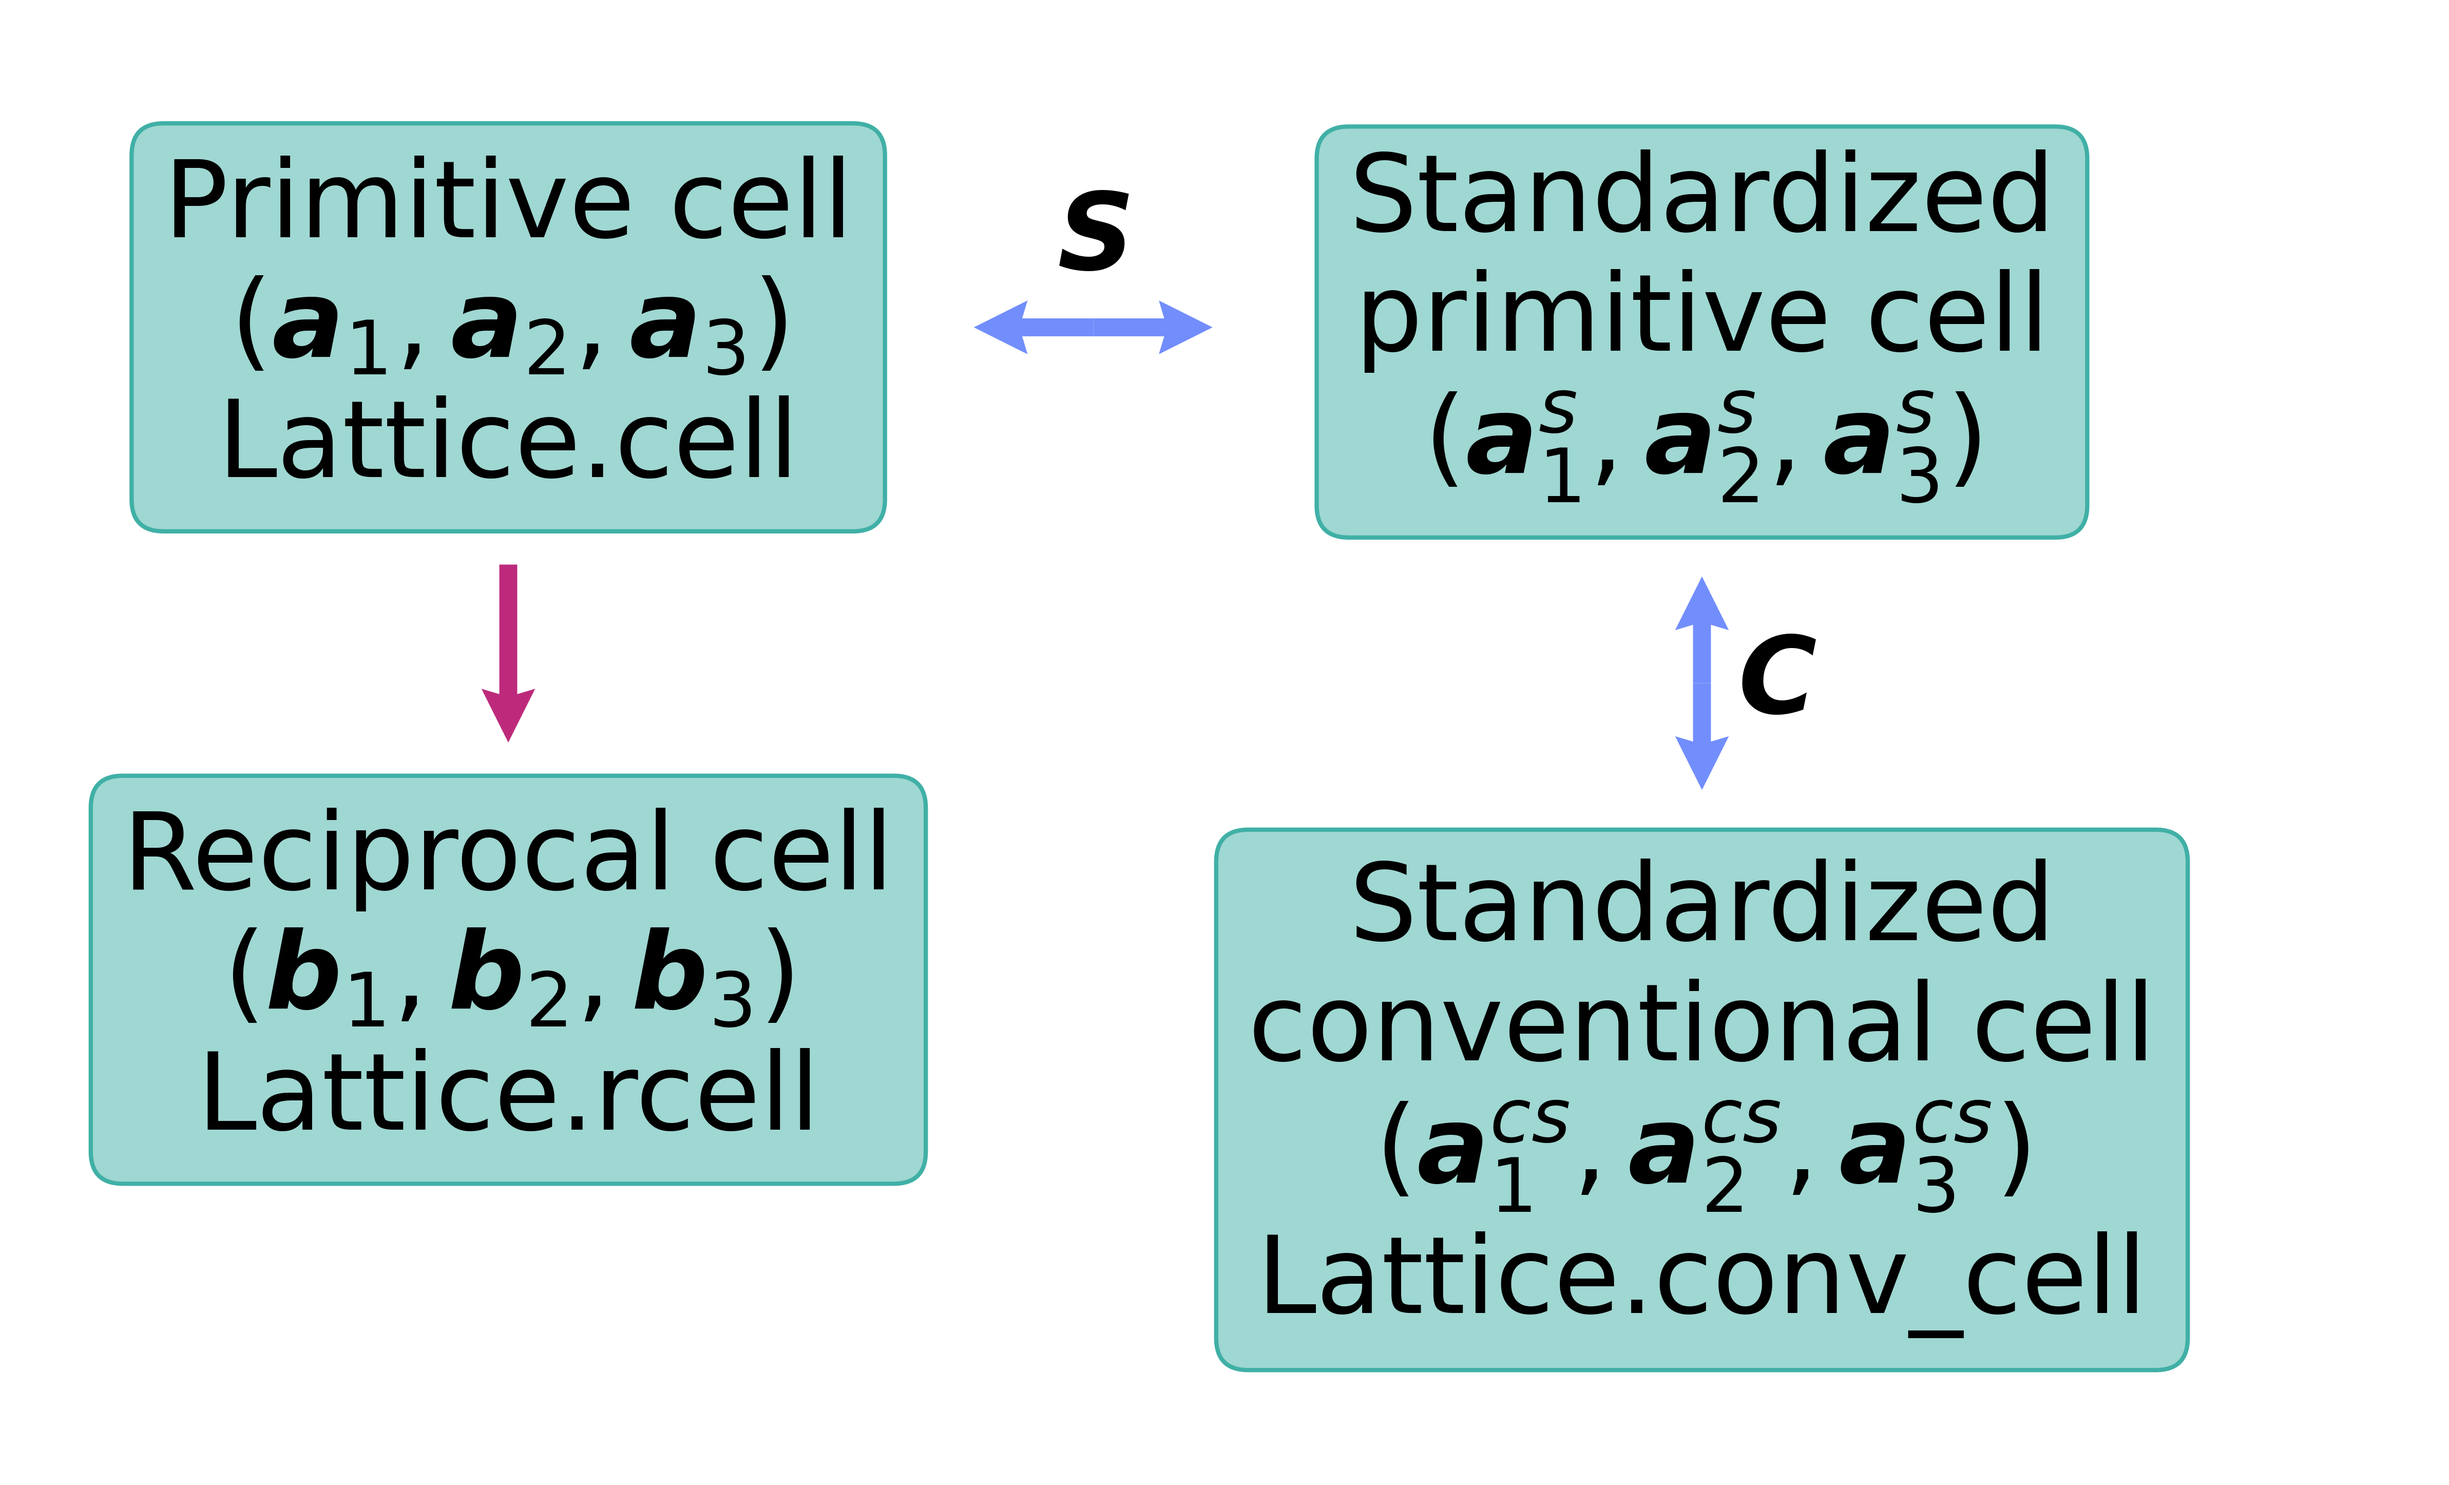
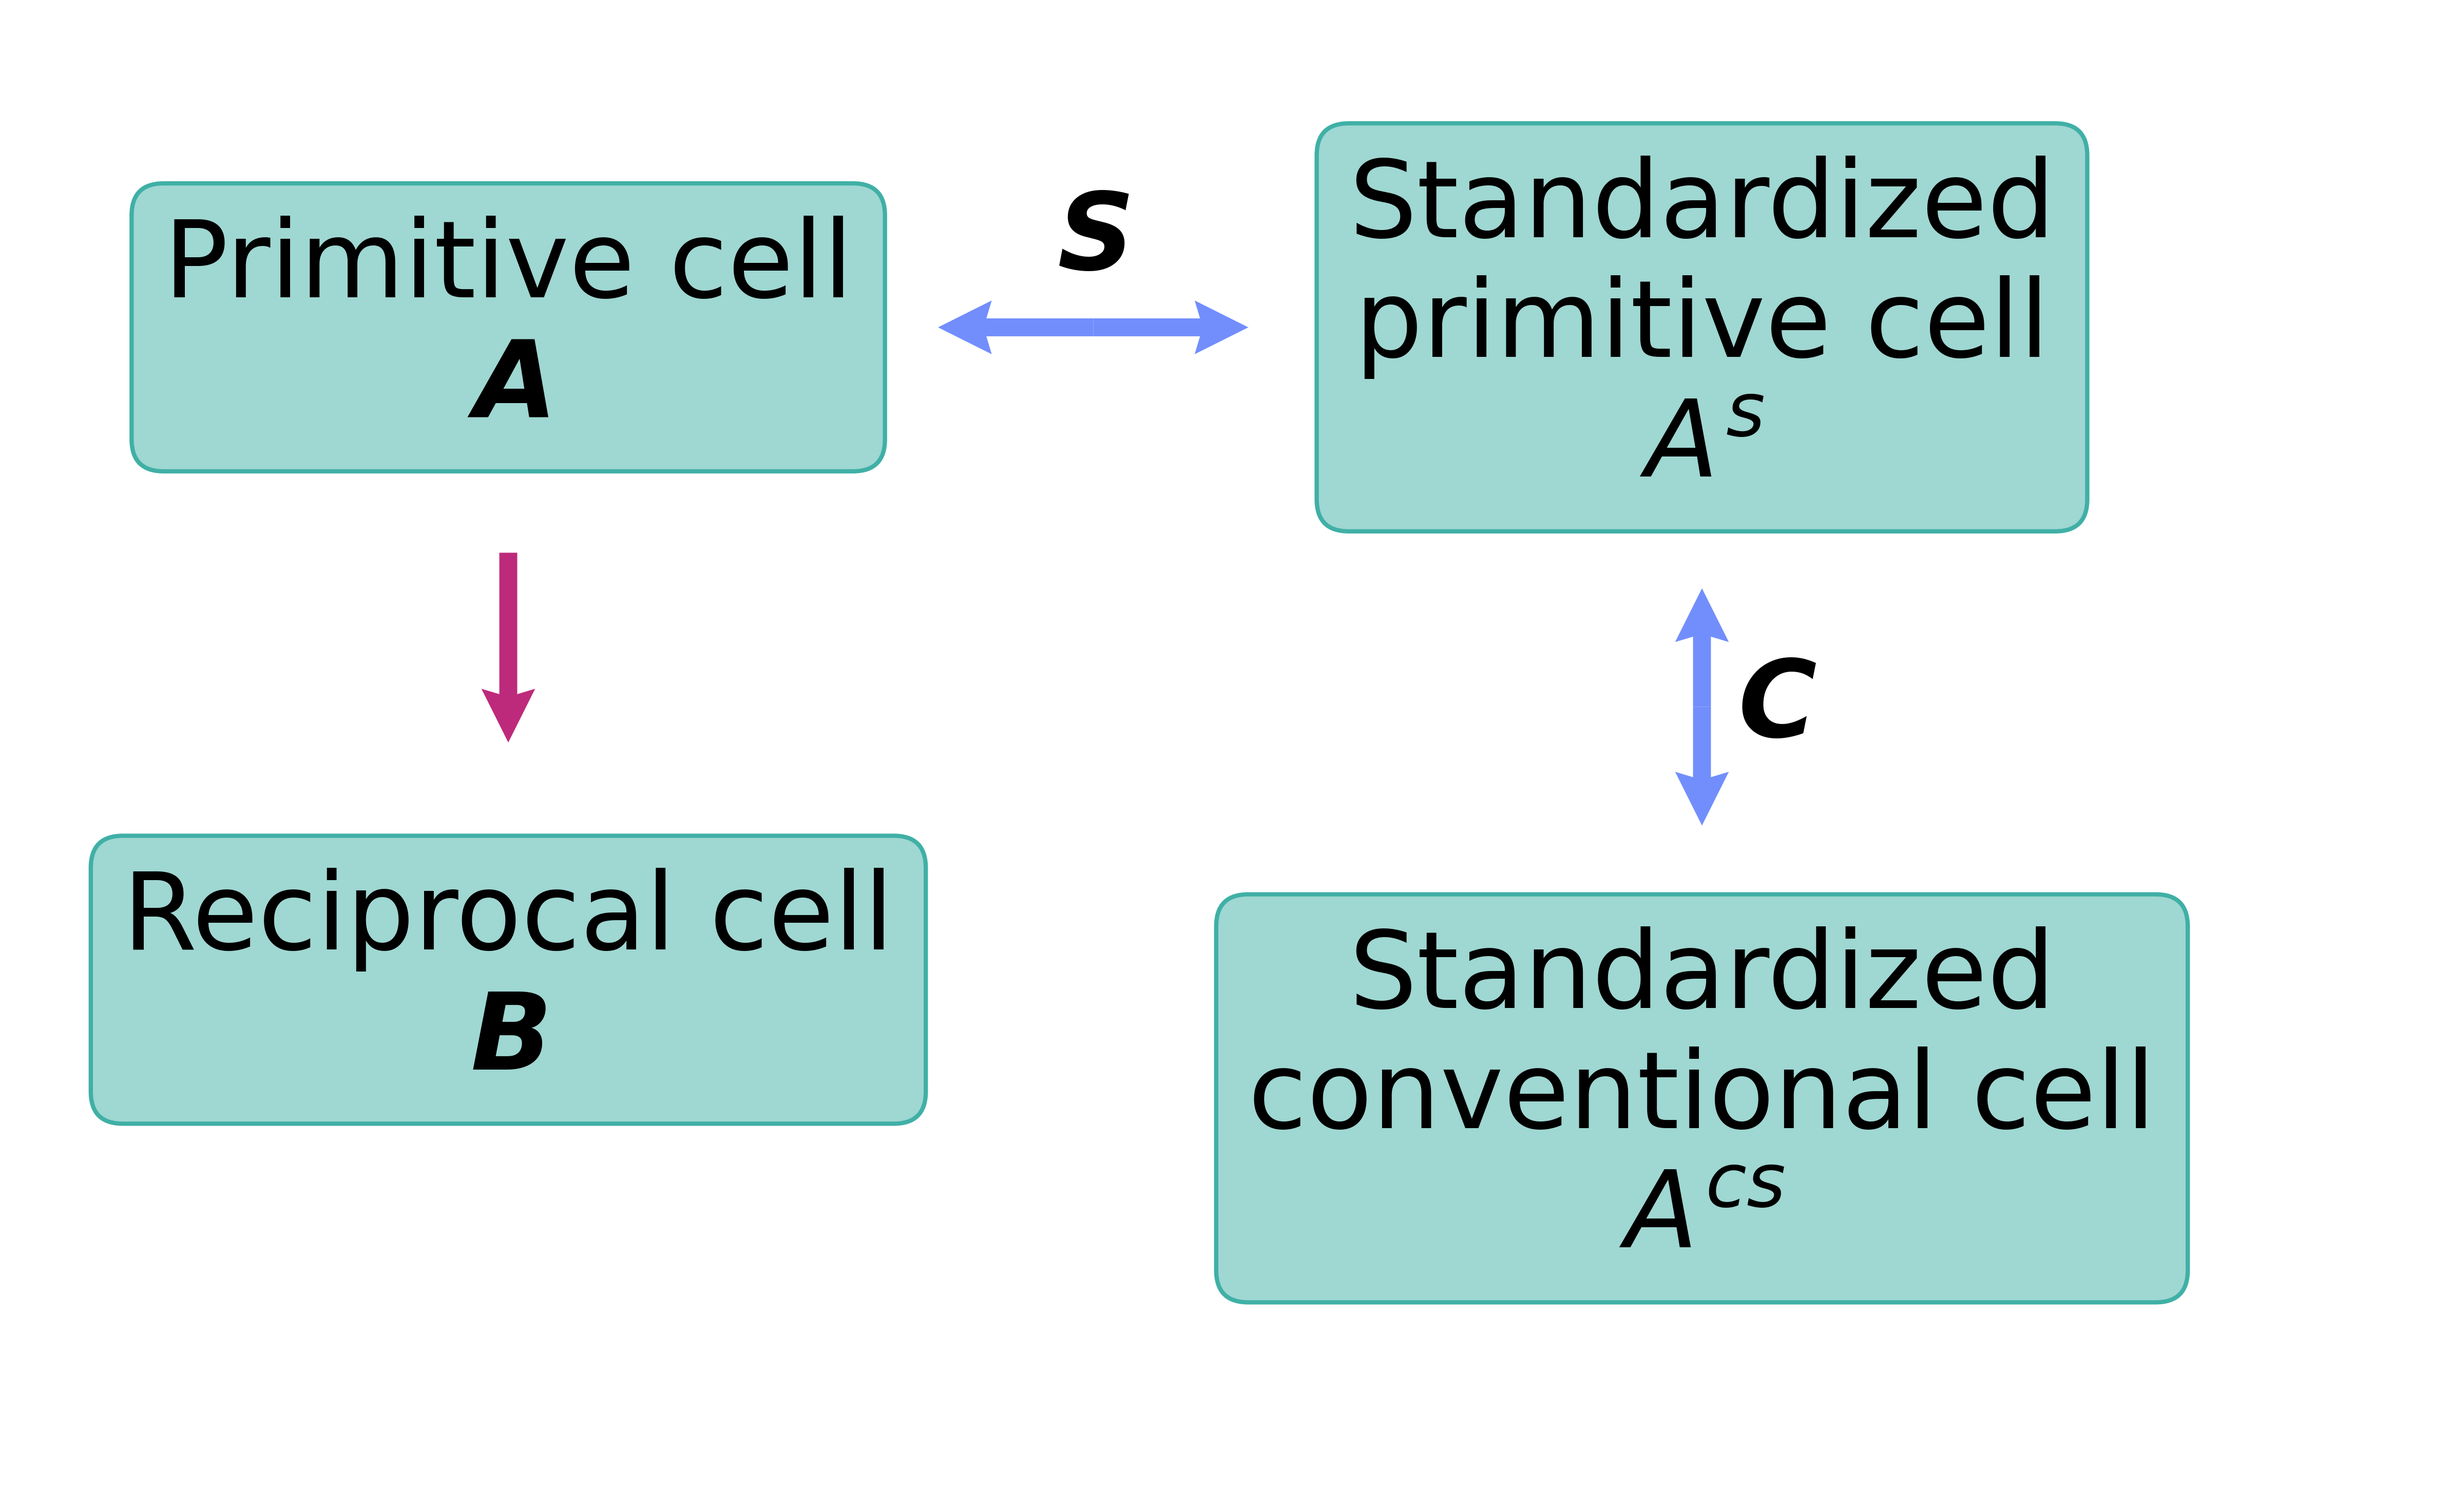
Rewrite part of docs

diff --git a/tools/plot-cell-relations.py b/tools/plot-cell-relations.py
@@ -1,5 +1,5 @@
 # Wulfric - Crystal, Lattice, Atoms, K-path.
-# Copyright (C) 2023-2024 Andrey Rybakov
+# Copyright (C) 2023-2025 Andrey Rybakov
 #
 # e-mail: anry@uv.es, web: adrybakov.com
 #
@@ -72,45 +72,38 @@ def cells():
     ax.text(
         40,
         95,
-        f"Primitive cell\n"
-        R"$(\boldsymbol{a}_1, \boldsymbol{a}_2, \boldsymbol{a}_3)$"
-        "\nLattice.cell",
+        "Primitive cell\n" R"$\boldsymbol{A}$",
         **text_style,
     )
     ax.text(
         40,
         40,
-        f"Reciprocal cell\n"
-        R"$(\boldsymbol{b}_1, \boldsymbol{b}_2, \boldsymbol{b}_3)$"
-        "\nLattice.rcell",
+        "Reciprocal cell\n" R"$\boldsymbol{B}$",
         **text_style,
     )
     ax.text(
         140,
         95,
-        f"Standardized\nprimitive cell\n"
-        R"$(\boldsymbol{a}^s_1, \boldsymbol{a}^s_2, \boldsymbol{a}^s_3)$",
+        "Standardized\nprimitive cell\n" R"$\boldsymbol{A^s}$",
         **text_style,
     )
     ax.text(
         140,
         30,
-        f"Standardized\nconventional cell\n"
-        R"$(\boldsymbol{a}^{cs}_1, \boldsymbol{a}^{cs}_2, \boldsymbol{a}^{cs}_3)$"
-        "\nLattice.conv_cell",
+        "Standardized\nconventional cell\n" R"$\boldsymbol{A^{cs}}$",
         **text_style,
     )
 
-    quiver(ax, (89, 95), 20, 0)
-    quiver(ax, (140, 65), 0, 18)
-    ax.text(143, 65, R"$\boldsymbol{C}$", ha="left", va="center", size=25)
+    quiver(ax, (89, 95), 26, 0)
+    quiver(ax, (140, 63), 0, 20)
+    ax.text(143, 63, R"$\boldsymbol{C}$", ha="left", va="center", size=25)
     ax.text(89, 98, R"$\boldsymbol{S}$", ha="center", va="bottom", size=25)
 
     ax.quiver(
         40,
-        75,
+        76,
         0,
-        -15,
+        -16,
         angles="xy",
         scale_units="xy",
         scale=1,

diff --git a/docs/source/user-guide/conventions/cell.rst b/docs/source/user-guide/conventions/cell.rst
@@ -15,22 +15,13 @@ transformation matrices :math:`\boldsymbol{C}` and :math:`\boldsymbol{S}` act se
     :align: center
     :target: ../../_images/cell-relations.png
 
-.. note::
-    We use :py:class:`.Lattice` in the examples, but the same logic applies to it's
-    children classes (e.g. :py:class:`.Crystal`).
-
 "The" cell
 ===========
 
-The main cell in the package resides in the :py:attr:`.Lattice.cell` attribute.
-In context of the :py:class:`.Lattice` class it is undestood to be primitive cell, as it
-defines the lattice. In context of the :py:class:`.Crystal` class (i.e.
-:py:attr:`.Crystal.cell`) it is *interpreted* by the package as primitive cell, however,
-it might not be the actual primitive cell of the crystal structure.
-
-Every other type of the cell (including reciprocal cell
-:py:attr:`.Lattice.reciprocal_cell`) is defined by some transformation of
-:py:attr:`.Lattice.cell`.
+The basic ``cell`` of the package. In the context of the lattice it is understood as
+primitive. In context of the crystal (i.e. ``cell`` and ``atoms``) it is *interpreted* by
+the package as primitive cell, however, it might not be the actual primitive cell of the
+crystal structure.
 
 
 .. _user-guide_conventions_cell_standardization:
@@ -46,18 +37,19 @@ are defined: conventional one and primitive one. We use transformation matrix
 
 .. math::
 
-    (\boldsymbol{a}_1, \boldsymbol{a}_2, \boldsymbol{a}_3)
+    \boldsymbol{A}
     =
-    (\boldsymbol{a}_1^s, \boldsymbol{a}_2^s, \boldsymbol{a}_3^s) \boldsymbol{S}
+    \boldsymbol{S}^T \boldsymbol{A^S}
 
 and transformation matrix :math:`\boldsymbol{C}` to compute the **standardized
 conventional** cell
 
 .. math::
 
-    (\boldsymbol{a}_1^s, \boldsymbol{a}_2^s, \boldsymbol{a}_3^s)
+
+    \boldsymbol{A^s}
     =
-    (\boldsymbol{a}_1^{cs}, \boldsymbol{a}_2^{cs}, \boldsymbol{a}_3^{cs}) \boldsymbol{C}.
+    \boldsymbol{C}^T \boldsymbol{A^{cs}}
 
 Details on the construction of matrices :math:`\boldsymbol{S}` and exact forms of matrices
 :math:`\boldsymbol{C}` are provided in the individual pages for each of the 14
